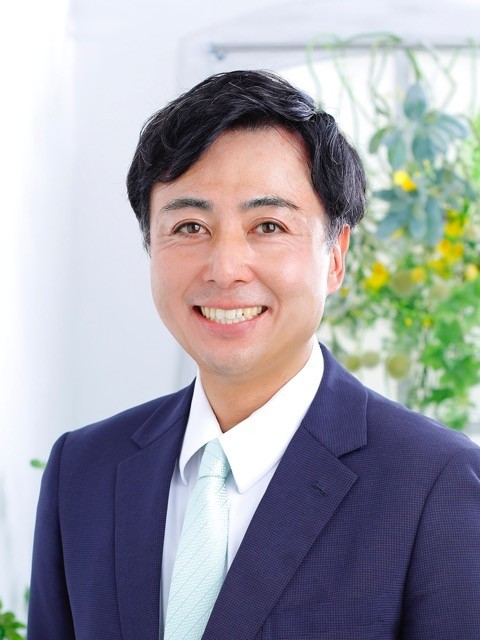
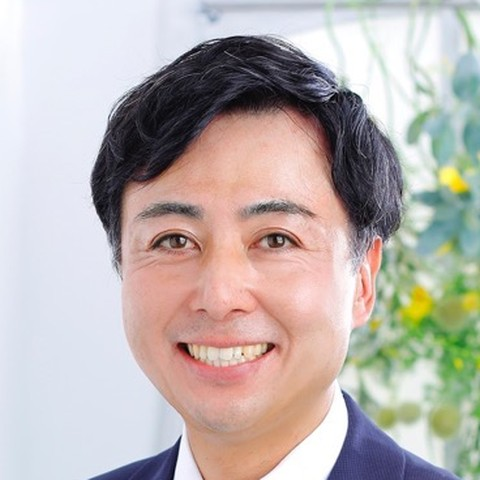
テスト掲載: 首長コメント欄の決定案サンプル — 写真を正円に・中野区長と品川区長の写真を差し替え
5人の写真を顔の大きさをそろえた正方形に切り抜き、コメント欄と相関図の両方で正円表示。

diff --git a/shirai-mayors-sample/index.html b/shirai-mayors-sample/index.html
@@ -132,6 +132,8 @@ img{display:block;max-width:100%}
 
 .ed-no{font-size:3rem;line-height:1;letter-spacing:.04em}
 .ed-pull{margin-top:0}
+.ed-photo img{aspect-ratio:1/1;border-radius:50%;object-position:center}
+.rel-node img{object-position:center}
 .sec-ja-final{margin-bottom:0;word-break:auto-phrase;text-wrap:balance}
 .ed-cap{margin-top:22px;display:flex;flex-direction:column;align-items:center;gap:2px;text-align:center}
 .ed-cap .ed-role{font-weight:700;font-size:.9rem;letter-spacing:.1em;color:var(--accent-deep);line-height:1.6}
@@ -189,6 +191,7 @@ img{display:block;max-width:100%}
 .tile,.tile:nth-child(4),.tile:nth-child(5){grid-column:auto;width:auto;justify-self:stretch}
 .tile{padding:28px 24px 24px;border-radius:24px}
 .tile-pull{font-size:1.3rem}
+.ed-photo img{border-radius:50%}
 .ed-no{font-size:2.25rem}
 .ed-cap{margin-top:14px}
 .ed-cap .ed-name{font-size:1.35rem}
